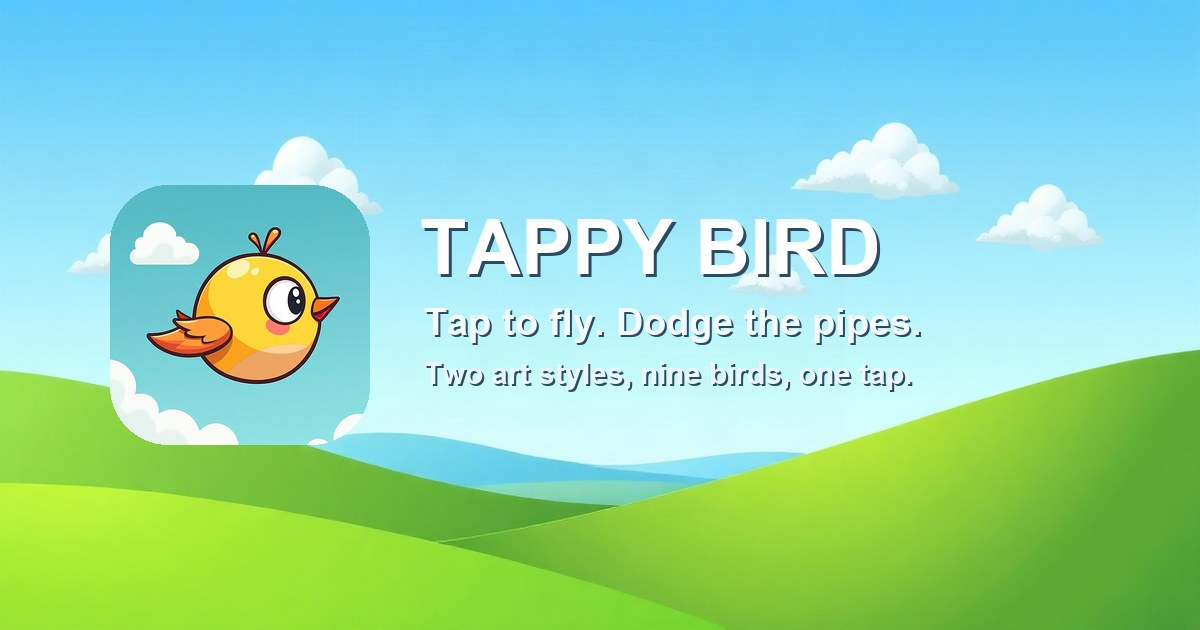
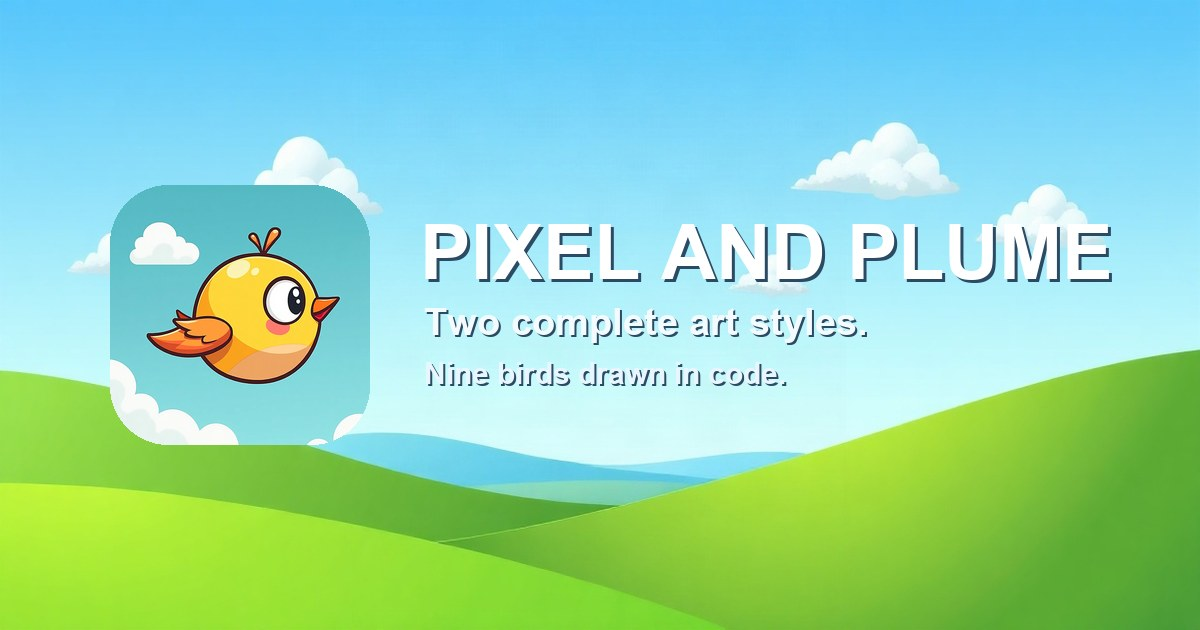
Rebrand the marketing page for the iOS rename
The iOS release is now Pixel and Plume after an App Store 4.3(a) rejection;
Google Play keeps Tappy Bird. The page names both, which it has to: this URL is
also the home page on the Android project's Google OAuth consent screen, so it
still has to represent the Android app honestly.

The social preview image had the old name baked into the pixels, so it is
regenerated. The title is now measured against the space it has rather than
assuming the old size fits, since the new name is twice as wide.

Changed region(s): [[0.3392, 0.3317, 0.925, 0.4524], [0.3392, 0.573, 0.7708, 0.6333], [0.37, 0.4825, 0.7708, 0.5429]]

diff --git a/index.html b/index.html
@@ -3,13 +3,13 @@
 <head>
 <meta charset="UTF-8">
 <meta name="viewport" content="width=device-width, initial-scale=1.0">
-<title>Tappy Bird - One Tap Arcade Game for iPhone</title>
-<meta name="description" content="Tappy Bird is a one tap arcade flyer. Thread the pipes, beat your best score, and unlock nine bird skins across two art styles. Free on the App Store and Google Play.">
+<title>Pixel and Plume - One Tap Arcade Game</title>
+<meta name="description" content="Pixel and Plume is a one tap arcade flyer with two complete art styles and nine birds drawn in code. Free on the App Store, and on Google Play as Tappy Bird.">
 <link rel="icon" type="image/png" href="assets/icon.png">
 
 <meta property="og:type" content="website">
-<meta property="og:title" content="Tappy Bird - One Tap Arcade Game">
-<meta property="og:description" content="Tap to fly, dodge the pipes, beat your best score. Nine bird skins, two art styles, no account needed.">
+<meta property="og:title" content="Pixel and Plume - One Tap Arcade Game">
+<meta property="og:description" content="Two complete art styles, nine birds drawn in code, one tap. No account needed, plays fully offline.">
 <meta property="og:image" content="https://vibedev1229.github.io/tappybird-site/assets/og.jpg">
 <meta property="og:url" content="https://vibedev1229.github.io/tappybird-site/">
 <meta name="twitter:card" content="summary_large_image">
@@ -66,8 +66,8 @@
 <body>
 
 <header>
-    <img class="icon" src="assets/icon.png" alt="Tappy Bird app icon">
-    <h1>Tappy Bird</h1>
+    <img class="icon" src="assets/icon.png" alt="Pixel and Plume app icon">
+    <h1>Pixel and Plume</h1>
     <p class="tag">Tap to fly. Dodge the pipes. Beat your best.</p>
     <div class="stores">
         <a href="https://apps.apple.com/app/id6813172413">
@@ -77,7 +77,7 @@
             <img class="badge-google" src="assets/badge-googleplay.png" alt="Get it on Google Play">
         </a>
     </div>
-    <p class="avail">Free on iPhone (iOS 16 and later) and Android 6.0 and later</p>
+    <p class="avail">Free on iPhone (iOS 16 and later), and on Google Play as Tappy Bird (Android 6.0 and later)</p>
 </header>
 
 <div class="wrap">
@@ -104,7 +104,7 @@
     <section>
         <h2>Screenshots</h2>
         <div class="shots">
-            <img src="assets/shot-menu.jpg" alt="Tappy Bird main menu showing the selected bird">
+            <img src="assets/shot-menu.jpg" alt="Pixel and Plume main menu showing the selected bird">
             <img src="assets/shot-game.jpg" alt="Gameplay in the Modern art style">
             <img src="assets/shot-pixel.jpg" alt="Gameplay in the retro Pixel art style">
             <img src="assets/shot-shop.jpg" alt="The shop, showing bird skins that can be unlocked with coins">

diff --git a/README.md b/README.md
@@ -1,6 +1,8 @@
 # tappybird-site
 
-Marketing page for Tappy Bird, hosted via GitHub Pages.
+Marketing page, hosted via GitHub Pages. The game is **Pixel and Plume** on the
+App Store and **Tappy Bird** on Google Play: the iOS release was renamed after an App Store
+4.3(a) rejection, and the repo name is kept as-is so the published URL does not break.
 
 Live: https://vibedev1229.github.io/tappybird-site/
 
